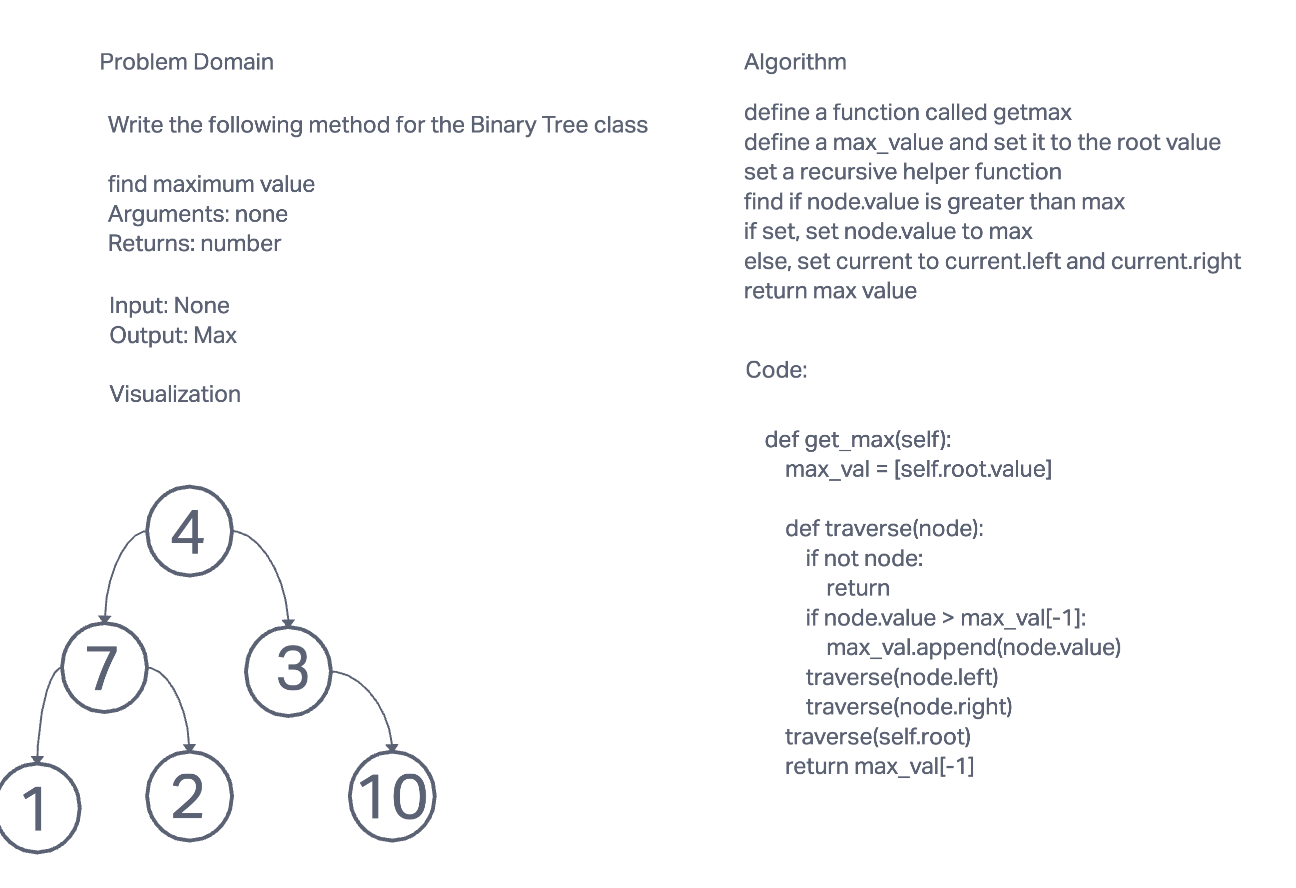
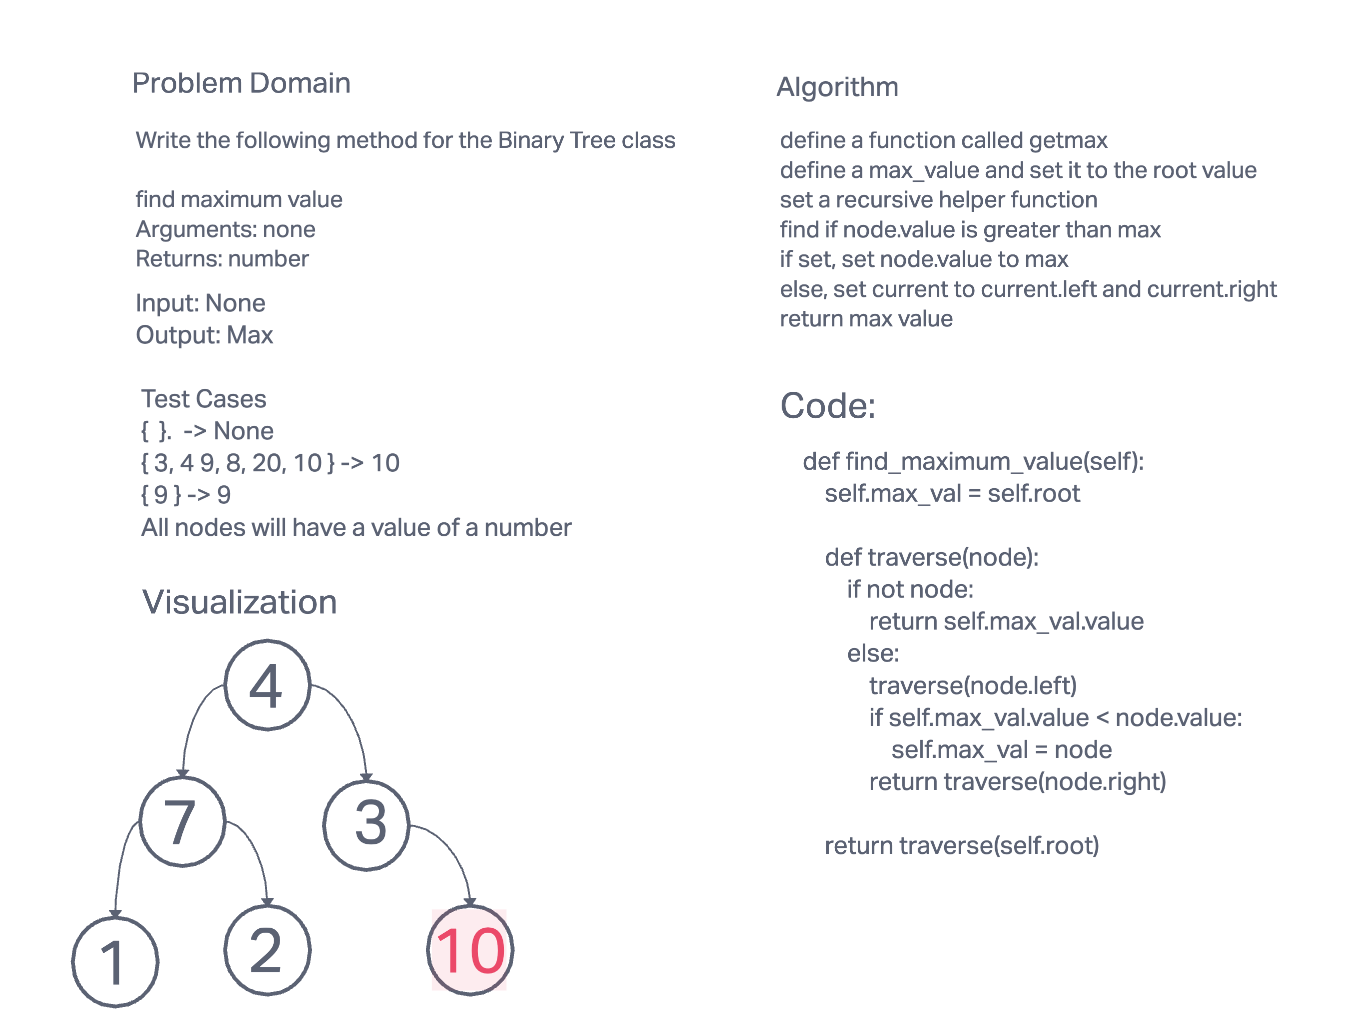
Updated CC16

diff --git a/python/data_structures/trees/binary_tree.py b/python/data_structures/trees/binary_tree.py
@@ -5,6 +5,7 @@ class BinaryTree:
 
     def __init__(self, root=None):
         self.root = root
+        self.max_val = self.root
 
     def pre_order(self, data=[]):
         def traverse(node):
@@ -37,17 +38,18 @@ class BinaryTree:
         return data
 
     def find_maximum_value(self):
-        max_val = [self.root.value]
+        self.max_val = self.root
 
         def traverse(node):
             if not node:
-                return
-            if node.value > max_val[-1]:
-                max_val.append(node.value)
-            traverse(node.left)
-            traverse(node.right)
-        traverse(self.root)
-        return max_val[-1]
+                return self.max_val.value
+            else:
+                traverse(node.left)
+                if self.max_val.value < node.value:
+                    self.max_val = node
+                return traverse(node.right)
+
+        return traverse(self.root)
 
 
 class Node:
@@ -66,4 +68,4 @@ if __name__ == "__main__":
     tree.root.left.right = Node(1000)
     tree.root.left.right.left = Node(300)
     print(tree.in_order())
-    print(tree.get_maxfind_maximum_value())
+    print(tree.find_maximum_value())
